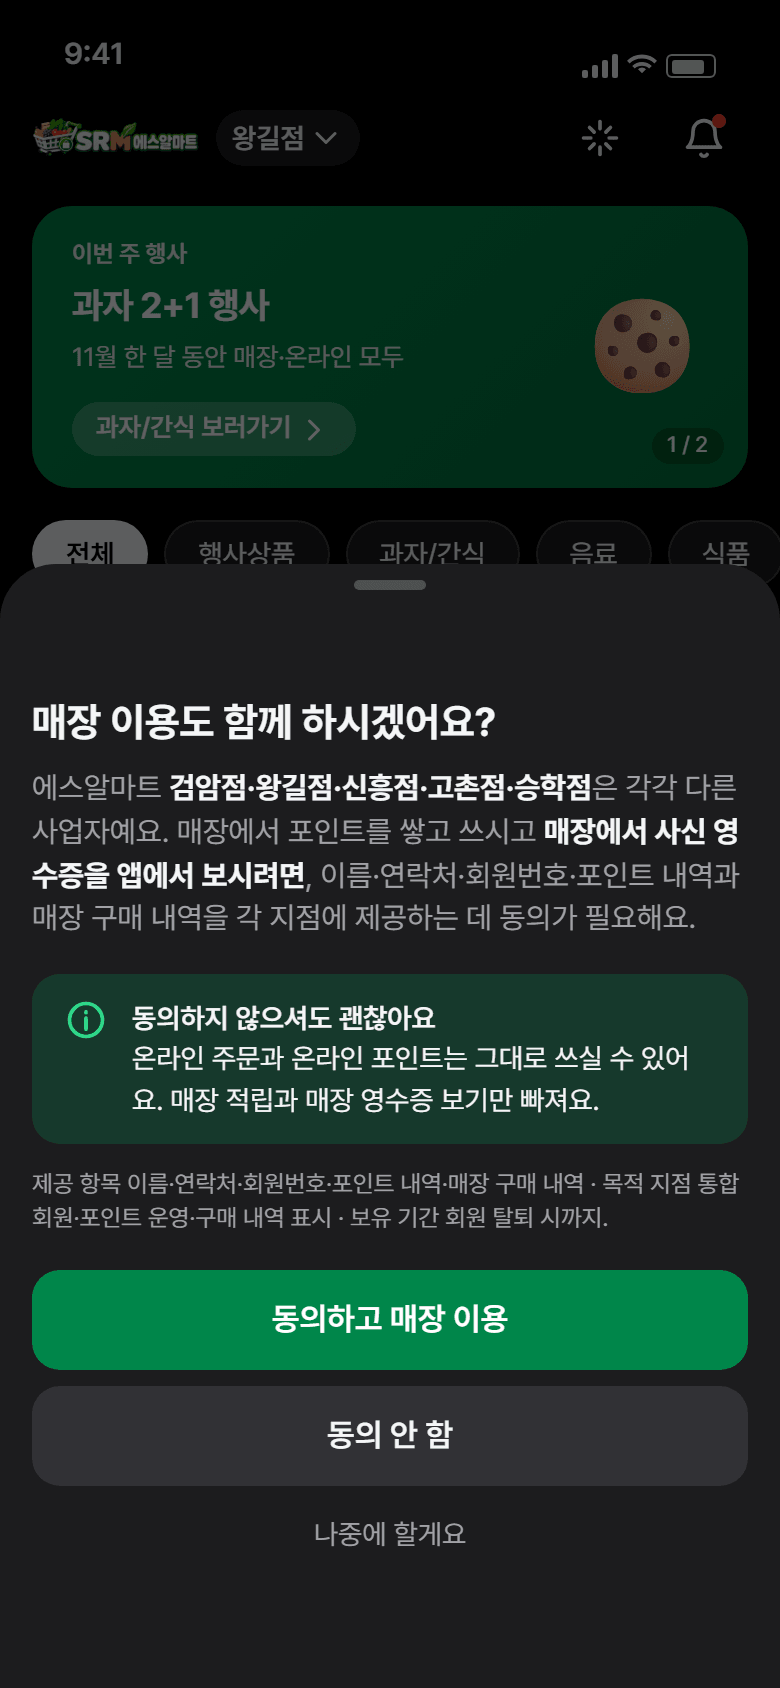
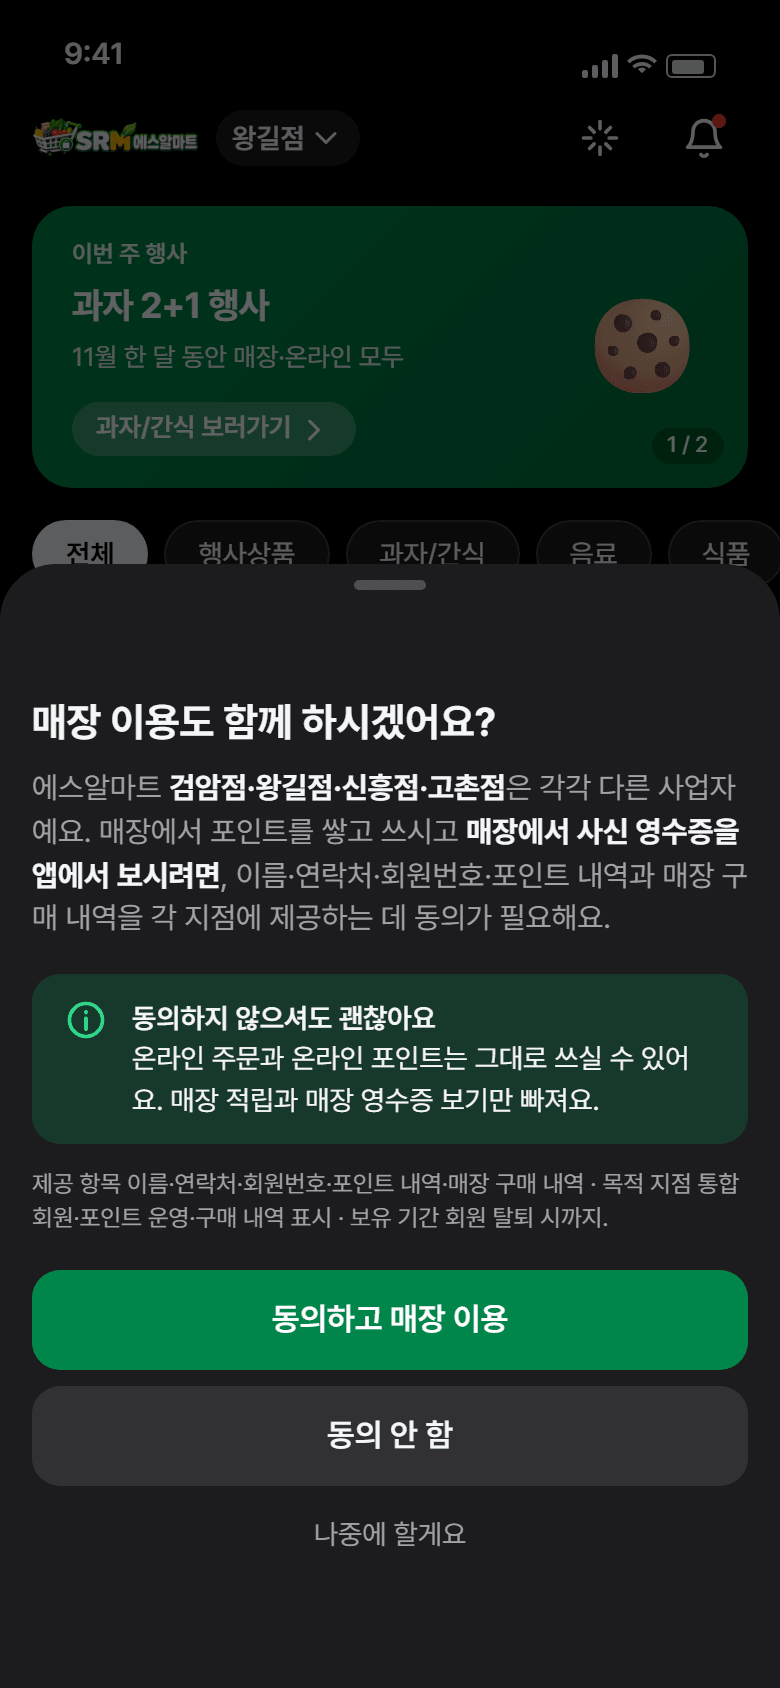
fix(shop): 개인정보 제공 지점 목록에서 승학점을 뺀다 — 손님에게 보이는 매장으로 만든다 (2026-11-12 지시 1)
- 매장 이용 동의(S32 · ThirdPartyConsentModal)와 가입 선택 동의(S28 · Login.js)의 지점 목록이
  「승학·검암·왕길·신흥·고촌」 손글씨였다. 승학점(물류)은 손님에게 보이지 않게 정해졌으므로
  손님이 모르는 매장에 정보를 넘기는 문장이 됐다.
- 목록을 GET /api/stores?audience=customer 결과로 만든다 — 새 유틸 src/utils/customerStores.js
  (지점 이름: display_name 또는 name 에서 「에스알마트 」「아람마트 」 앞머리를 뗀다 · 조사 은/는).
  못 불러오면 빈 목록·옛 목록이 아니라 「에스알마트 각 지점」 으로 떨어진다.
- 가입 화면은 이미 받아 둔 가입점포 목록(같은 API)을 그대로 쓴다.
- SHOP_SCREENS.md S32 설명 갱신, 목업 사진 S32(5크기)·S28(태블릿) 다시 찍음.

Changed region(s): [[0.0308, 0.4621, 0.9538, 0.5545], [0.1231, 0.0616, 0.1538, 0.0924]]

diff --git a/src/utils/customerStores.js b/src/utils/customerStores.js
@@ -1,0 +1,85 @@
+// 손님에게 보이는 매장 이름 목록 — 개인정보 제공 동의 문구에 쓴다 (2026-11-12 대표님 지시 1).
+//
+// ── 왜 손으로 적지 않나 ──────────────────────────────────────────────────
+//
+// 동의 문구에 「검암점·왕길점·신흥점·고촌점·승학점」 이 **손으로** 적혀 있었다. 그런데
+// 승학점은 물류 창고라 손님에게 보이지 않게 정해졌고(stores.customer_visible), 그러면
+// 손님이 **알지도 못하는 매장에 정보를 넘기는 데** 동의하라는 문장이 된다.
+// 매장 노출을 바꿀 때마다 문구를 따로 고쳐야 한다면 또 어긋난다 — 그래서 문구를
+// `GET /api/stores?audience=customer` 결과로 만든다. 서버가 보이는 매장을 바꾸면 문구도 따라 바뀐다.
+//
+// ── 못 불러오면 ──────────────────────────────────────────────────────────
+//
+// 🔴 **빈 목록·옛 목록으로 떨어지지 않는다.** 목록 없이 「에스알마트 각 지점」 이라고만 쓴다.
+//    옛 목록을 적어 두면 그게 다시 틀린 약속이 되고, 빈 괄호는 문장이 깨져 보인다.
+import { useEffect, useState } from 'react';
+import { getStores } from '../api';
+
+// 매장 이름 앞머리(상호) — 「에스알마트 검암점」 → 「검암점」, 「아람마트 고촌점」 → 「고촌점」.
+const BRAND_PREFIX = /^(에스알마트|아람마트|SR\s*마트|에스알|동신마켓)\s*/i;
+
+/** 매장 한 곳의 지점 이름 — 표시 이름(display_name)이 있으면 그것, 앞머리 상호는 뗀다. */
+export function branchName(store) {
+  const raw = String(store?.display_name || store?.name || '').trim();
+  if (!raw) return '';
+  let n = raw.replace(BRAND_PREFIX, '').trim();
+  // 다른 상호가 붙어 와도 「○○점」 만 남긴다(마지막 낱말이 「점」 으로 끝날 때만).
+  const parts = n.split(/\s+/);
+  if (parts.length > 1 && /점$/.test(parts[parts.length - 1])) n = parts[parts.length - 1];
+  return n || raw;
+}
+
+/** 매장 목록 → 「검암점·왕길점·신흥점·고촌점」. 이름이 하나도 없으면 ''. */
+export function branchList(stores) {
+  if (!Array.isArray(stores)) return '';
+  const seen = new Set();
+  const names = [];
+  for (const s of stores) {
+    const n = branchName(s);
+    if (n && !seen.has(n)) { seen.add(n); names.push(n); }
+  }
+  return names.join('·');
+}
+
+/** 받침이 있으면 '은', 없으면 '는' — 마지막 글자가 한글이 아니면 '은(는)'. */
+export function topicJosa(word) {
+  const ch = String(word || '').slice(-1);
+  const code = ch.charCodeAt(0) - 0xac00;
+  if (!(code >= 0 && code <= 11171)) return '은(는)';
+  return code % 28 ? '은' : '는';
+}
+
+// 한 번 받은 목록은 세션 동안 다시 쓴다(동의 창과 가입 화면이 같이 부른다).
+// 실패는 저장하지 않는다 — 다음에 열 때 다시 시도한다.
+let cached = null;
+let pending = null;
+
+export function loadCustomerStores() {
+  if (cached) return Promise.resolve(cached);
+  if (!pending) {
+    pending = getStores()
+      .then((res) => {
+        const rows = Array.isArray(res.data) ? res.data : [];
+        if (rows.length) cached = rows;
+        return rows;
+      })
+      .finally(() => { pending = null; });
+  }
+  return pending;
+}
+
+/**
+ * 손님에게 보이는 지점 이름 문자열 — 「검암점·왕길점·신흥점·고촌점」.
+ * 불러오는 중이거나 실패하면 '' (부르는 쪽은 목록 없는 문장으로 쓴다).
+ */
+export function useCustomerBranchList() {
+  const [list, setList] = useState(() => (cached ? branchList(cached) : ''));
+  useEffect(() => {
+    let alive = true;
+    loadCustomerStores()
+      .then((rows) => { if (alive) setList(branchList(rows)); })
+      .catch(() => { if (alive) setList(''); });
+    return () => { alive = false; };
+  }, []);
+  return list;
+}

diff --git a/src/pages/Login.js b/src/pages/Login.js
@@ -4,6 +4,8 @@ import srmLogo from '../srm-logo-transparent.png';
 import { getStores, register, getCoverage } from '../api';
 import { useDialog } from '../DialogContext';
 import { todayYmd } from '../utils/localDate';
+// 동의 문구의 지점 목록 — 아래 `stores`(GET /api/stores?audience=customer)로 만든다. 못 불러오면 목록 없이 「각 지점」.
+import { branchList } from '../utils/customerStores';
 
 // ── 나이 계산 함수 ──────────────────────────────────────────
 // 동의 한 줄 — 체크박스 + 제목 + 설명.
@@ -645,7 +647,7 @@ function Login({ onLogin, onGuest }) {
                   checked={thirdPartyConsent}
                   onChange={setThirdPartyConsent}
                   label="지점 통합 회원·포인트·구매 내역 이용 동의"
-                  detail="에스알마트 각 지점(승학·검암·왕길·신흥·고촌)은 서로 다른 사업자입니다. 동의하시면 모든 지점에서 포인트를 함께 쌓고 쓰시고, 매장 구매 영수증도 앱에서 보실 수 있어요. 제공 항목은 이름·연락처·회원번호·포인트 내역·매장 구매 내역입니다. 동의하지 않으셔도 가입과 온라인 주문은 그대로 가능하며, 이 경우 매장 포인트 적립·사용과 매장 구매 내역 표시만 제한됩니다."
+                  detail={`에스알마트 각 지점${branchList(stores) ? `(${branchList(stores)})` : ''}은 서로 다른 사업자입니다. 동의하시면 모든 지점에서 포인트를 함께 쌓고 쓰시고, 매장 구매 영수증도 앱에서 보실 수 있어요. 제공 항목은 이름·연락처·회원번호·포인트 내역·매장 구매 내역입니다. 동의하지 않으셔도 가입과 온라인 주문은 그대로 가능하며, 이 경우 매장 포인트 적립·사용과 매장 구매 내역 표시만 제한됩니다.`}
                 />
                 <div style={{ marginTop: 12, fontSize: 12 }}>
                   <a href="https://dongsinmarket.co.kr/privacy.html" target="_blank" rel="noreferrer"

diff --git a/src/components/ThirdPartyConsentModal.jsx b/src/components/ThirdPartyConsentModal.jsx
@@ -17,8 +17,10 @@
 // 아무것도 보내지 않는다 — 다음 로그인 때 다시 뜬다. 답(동의/거절)을 해야만 끝난다.
 import { useState } from 'react';
 import API from '../api';
+import { useCustomerBranchList, topicJosa } from '../utils/customerStores';
 
 export default function ThirdPartyConsentModal({ onDone }) {
+  const branches = useCustomerBranchList();
   const [saving, setSaving] = useState(false);
   const [error, setError] = useState('');
 
@@ -42,7 +44,11 @@ export default function ThirdPartyConsentModal({ onDone }) {
         <div id="tpc-title" style={title}>매장 이용도 함께 하시겠어요?</div>
 
         <p style={body}>
-          에스알마트 <b>검암점·왕길점·신흥점·고촌점·승학점</b>은 각각 다른 사업자예요.
+          {/* 지점 이름은 손님에게 보이는 매장 목록(GET /api/stores?audience=customer)으로 만든다 —
+              utils/customerStores.js 머리말. 못 불러오면 목록 없이 「각 지점」. */}
+          {branches
+            ? <>에스알마트 <b>{branches}</b>{topicJosa(branches)} 각각 다른 사업자예요.</>
+            : <>에스알마트 각 지점은 각각 다른 사업자예요.</>}
           매장에서 포인트를 쌓고 쓰시고 <b>매장에서 사신 영수증을 앱에서 보시려면</b>,
           이름·연락처·회원번호·포인트 내역과 매장 구매 내역을 각 지점에 제공하는 데
           동의가 필요해요.

diff --git a/docs/SHOP_SCREENS.md b/docs/SHOP_SCREENS.md
@@ -63,7 +63,7 @@ P03(주문서 한 장 — S08·S10·S11·S12)·P04(회원가입 3단계 — S28)
 | **S29** | 아이디·비밀번호 찾기 | `pages/FindAccount.js` | 「준비 중인 기능이에요」(SMS/알림톡 연동 전 · 매장 문의 안내) · **로그인으로 돌아가기** | S27 「아이디/비밀번호 찾기」 |
 | **S30** | 점포 선택 | `components/StoreSelectionModal.jsx` (모달) | 🏪 「점포를 선택해주세요!」 · 점포 목록(이름·주소) · 불러오는 중 · 「둘러볼 수 있는 점포가 없어요」 · **닫기 없음**(반드시 고름) | 첫 방문(매장 미선택) · 로그아웃 뒤 |
 | **S31** | 비밀번호 바꾸기(첫 로그인) | `components/ForcePasswordChangeModal.jsx` | 🔒 「새 비밀번호 설정」 · 임시 비밀번호 안내 · 새 비밀번호·확인 · **비밀번호 표시** · 규칙 오류 · **비밀번호 변경**(변경 중…) → 다시 로그인 · **닫기 없음** | 임시 비밀번호로 로그인 |
-| **S32** | 매장 이용 동의(제3자 제공) | `components/ThirdPartyConsentModal.jsx` | 「매장 이용도 함께 하시겠어요?」 · 다섯 지점 · 쓰임 설명 · 「동의하지 않으셔도 괜찮아요」 · 제공 항목·목적·보유 기간 · **동의 안 함 / 동의하고 매장 이용 / 나중에 할게요** · 저장 실패 안내 | 기존 회원 로그인 직후 1회 · S16 「동의하고 매장 내역 보기」 |
+| **S32** | 매장 이용 동의(제3자 제공) | `components/ThirdPartyConsentModal.jsx` | 「매장 이용도 함께 하시겠어요?」 · **손님에게 보이는 지점**(`GET /api/stores?audience=customer` 로 만든다 — 승학점(물류) 빠짐, 못 불러오면 「각 지점」, 2026-11-12) · 쓰임 설명 · 「동의하지 않으셔도 괜찮아요」 · 제공 항목·목적·보유 기간 · **동의 안 함 / 동의하고 매장 이용 / 나중에 할게요** · 저장 실패 안내 | 기존 회원 로그인 직후 1회 · S16 「동의하고 매장 내역 보기」 |
 | **S33** | 로그아웃 확인 | `components/ConfirmModal.jsx` | 🚪 「정말 로그아웃 하시겠어요?」 · 취소 / 확인 · 바깥 누름·ESC 로 닫힘 → 「로그아웃 되었어요」 안내 | 헤더 「로그아웃」 · 마이 「로그아웃」 |
 | **S34** | 알림·확인창(공용) | `DialogContext.jsx` (`notify` · `confirm`) | 가운데 카드 · 제목(선택) · 문구 · **취소(왼쪽) / 확인** · 위험 동작은 빨강 확인 · 쓰는 곳: 로그인 필요 · 장바구니 비우기 · 가입 환영/오류 · 쿠폰 적용 · 리뷰 등록 · 결제 오류 등 | 앱 곳곳 |
 | **S35** | 토스트 | `App.js` 975~979 | 화면 아래 검은 알약 1.5초 · 「OO이(가) 장바구니에 담겼어요! 🛒」 · 품절 · 재고 없음 · 재고 초과 · 성인 상품 제한 | 담기 누름 |
